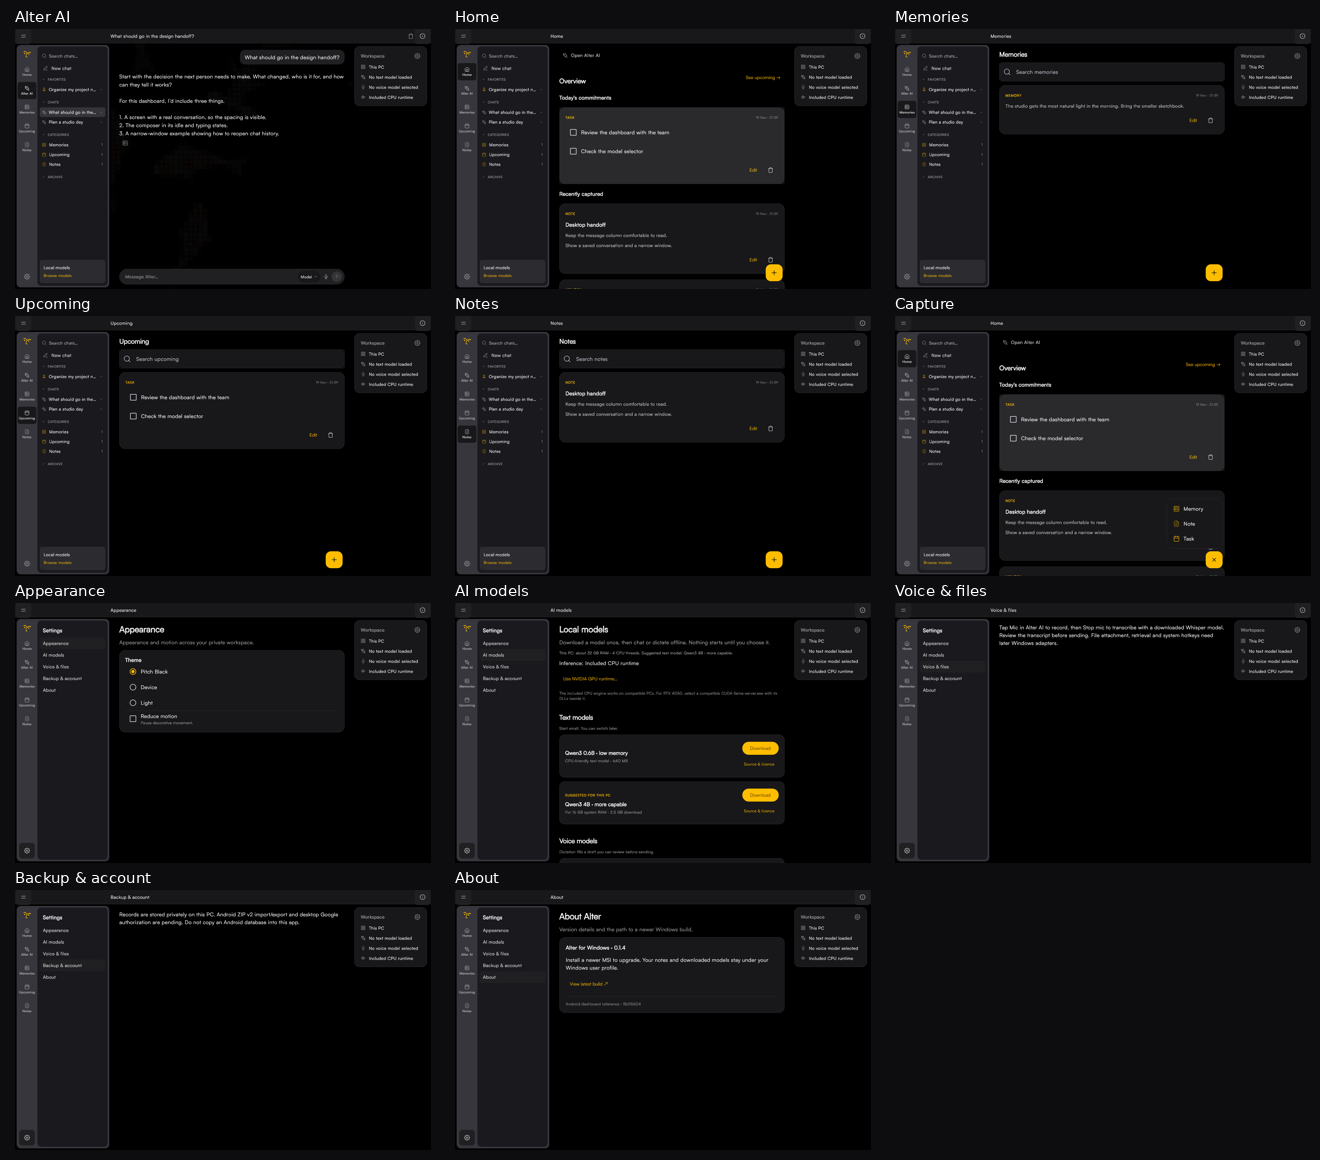
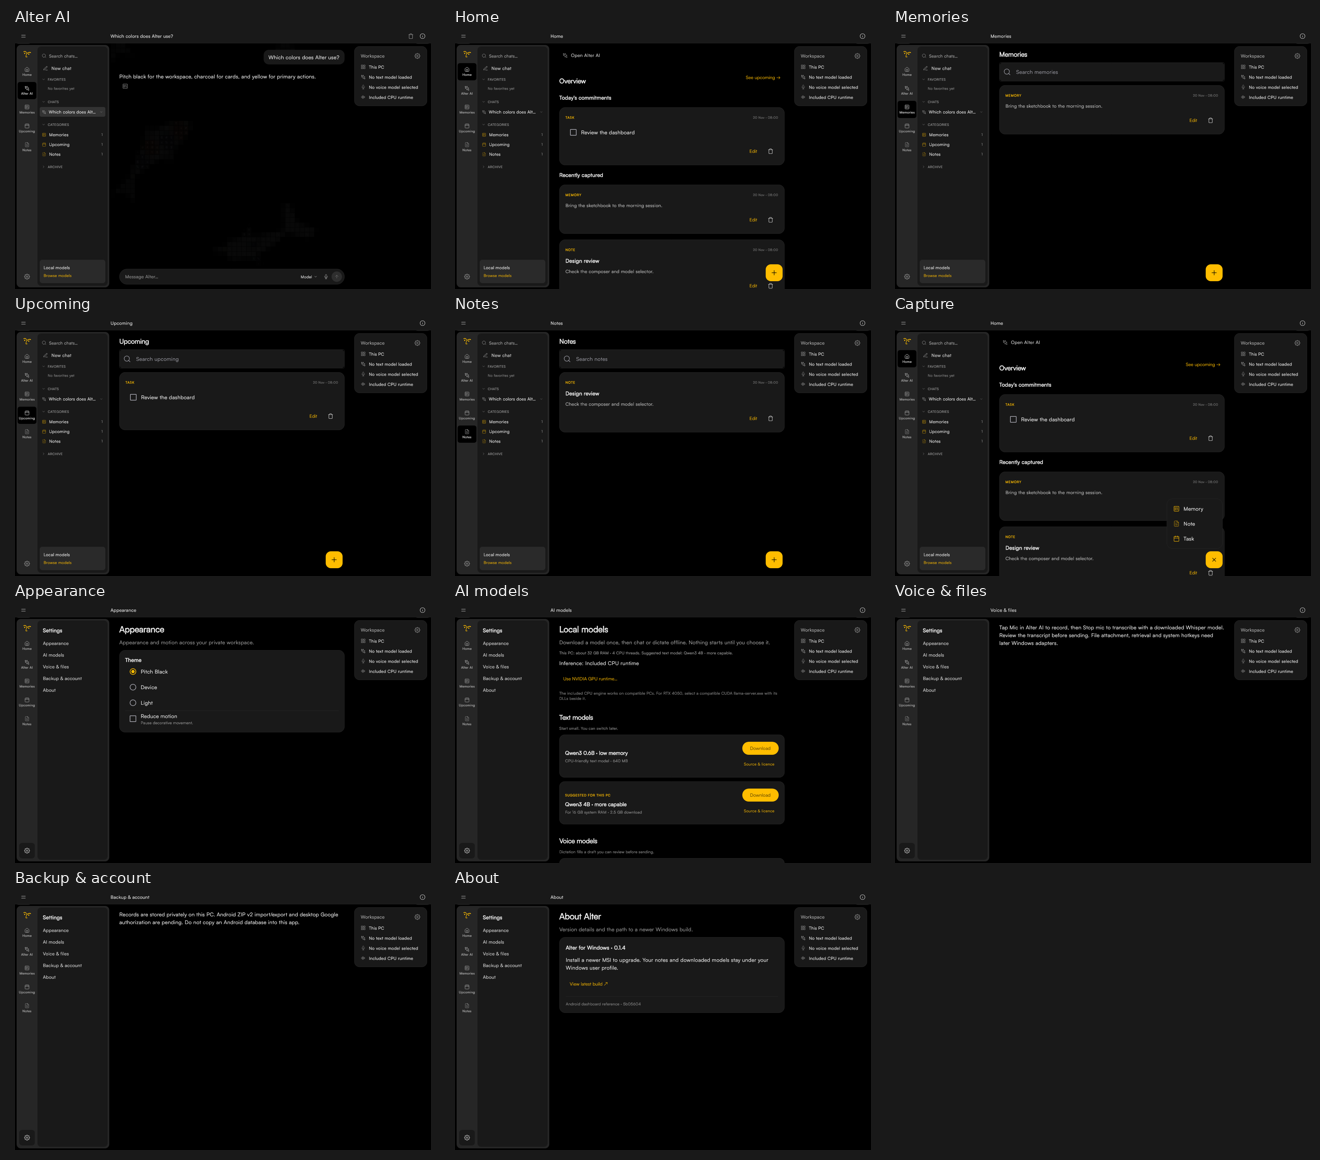
Use Alter Android palette across the desktop workspace

diff --git a/src/main/kotlin/com/example/ui/theme/DesktopColors.kt b/src/main/kotlin/com/example/ui/theme/DesktopColors.kt
@@ -1,0 +1,74 @@
+package com.example.ui.theme
+
+import androidx.compose.material3.darkColorScheme
+import androidx.compose.material3.lightColorScheme
+import androidx.compose.ui.graphics.Color
+
+internal val DarkColorScheme =
+  darkColorScheme(
+    primary = AlterYellow,
+    secondary = MutedText,
+    tertiary = BorderGray,
+    background = PitchBlack,
+    surface = SlateGrayCard,
+    surfaceVariant = SlateGrayCard,
+    onSurfaceVariant = MutedText,
+    onPrimary = PitchBlack,
+    onSecondary = PitchBlack,
+    primaryContainer = RaisedSurface,
+    onPrimaryContainer = LightText,
+    secondaryContainer = RaisedSurface,
+    onSecondaryContainer = LightText,
+    tertiaryContainer = RaisedSurface,
+    onTertiaryContainer = LightText,
+    onTertiary = LightText,
+    onBackground = LightText,
+    onSurface = LightText,
+    outline = BorderGray,
+    outlineVariant = BorderGray,
+    error = ErrorRed,
+    errorContainer = ErrorSurface,
+    onError = PitchBlack,
+    surfaceTint = PitchBlack,
+    surfaceContainerLowest = Color(0xFF121212),
+    surfaceContainerLow = SlateGrayCard,
+    surfaceDim = PitchBlack,
+    surfaceBright = RaisedSurface,
+    surfaceContainer = SlateGrayCard,
+    surfaceContainerHigh = RaisedSurface,
+    surfaceContainerHighest = RaisedSurface
+  )
+
+internal val LightColorScheme =
+  lightColorScheme(
+    primary = AlterYellow,
+    secondary = Color(0xFF666666),     // Slate-gray for subtext/secondary label
+    tertiary = Color(0xFFEAEAEA),      // Light border/divider line gray
+    background = Color(0xFFF7F8FA),    // Soft pristine off-white page background
+    surface = Color(0xFFFFFFFF),       // Pure white for cards/surfaces
+    surfaceVariant = Color(0xFFEAEAEA), // Grey for dialogs/popups instead of purple
+    onPrimary = PitchBlack,
+    onSecondary = Color(0xFF111111),   // Dark text on secondary
+    onBackground = Color(0xFF111111),  // Dark text on background
+    onSurface = Color(0xFF111111),     // Dark text on surface
+    outline = Color.Black.copy(alpha = 0.08f),
+    outlineVariant = Color(0xFFEAEAEA),
+    primaryContainer = Color(0xFFEAEAEA),
+    onPrimaryContainer = PitchBlack,
+    secondaryContainer = Color(0xFFEAEAEA),
+    onSecondaryContainer = PitchBlack,
+    tertiaryContainer = Color(0xFFEAEAEA),
+    onTertiaryContainer = PitchBlack,
+    onTertiary = PitchBlack,
+    surfaceTint = Color.White,
+    surfaceContainerLowest = Color.White,
+    surfaceContainerLow = Color(0xFFF7F8FA),
+    surfaceContainer = Color.White,
+    surfaceContainerHigh = Color(0xFFEAEAEA),
+    surfaceContainerHighest = Color(0xFFEAEAEA),
+    onSurfaceVariant = Color(0xFF666666),
+    error = ErrorRed,
+    onError = PitchBlack,
+    errorContainer = Color(0xFFFFE4E4),
+    onErrorContainer = PitchBlack,
+  )

diff --git a/src/main/kotlin/alter/Workspace.kt b/src/main/kotlin/alter/Workspace.kt
@@ -21,7 +21,6 @@ import androidx.compose.ui.text.style.TextOverflow
 import androidx.compose.ui.unit.*
 import com.example.ui.Lucide
 import com.example.ui.theme.AlterYellow
-import com.example.ui.theme.PitchBlack
 
 internal enum class Destination(val title: String, val icon: ImageVector) {
     Home("Home", Lucide.Home), Chat("Alter AI", Lucide.Sparkles), Memories("Memories", Lucide.Memories),
@@ -52,7 +51,7 @@ internal fun ActivityRail(current: Destination, settings: Boolean, select: (Dest
         Destination.entries.forEach { tab ->
             val selected = !settings && current == tab
             Column(Modifier.fillMaxWidth().height(53.dp).clip(RoundedCornerShape(7.dp))
-                .background(if (selected) c.surface else Color.Transparent).semantics { this.selected = selected }
+                .background(if (selected) c.background else Color.Transparent).semantics { this.selected = selected }
                 .clickable(role = Role.Tab) { select(tab) }, verticalArrangement = Arrangement.Center,
                 horizontalAlignment = Alignment.CenterHorizontally) {
                 Icon(tab.icon, null, Modifier.size(16.dp), tint = c.onSurface.copy(alpha = if (selected) 1f else .70f))
@@ -96,7 +95,7 @@ internal fun WorkspaceSidebar(settings: String?, active: Long?, threads: List<Ch
     val c = MaterialTheme.colorScheme
     val expanded = remember { mutableStateMapOf("Favorites" to true, "Chats" to true, "Categories" to true, "Archive" to false) }
     Column(Modifier.fillMaxSize().clip(RoundedCornerShape(11.dp)).background(
-        if (c.background == PitchBlack) Color(0xFF1A191E) else c.surface).padding(vertical = 8.dp, horizontal = 7.dp)) {
+        c.surfaceContainerLow).padding(vertical = 8.dp, horizontal = 7.dp)) {
         if (settings != null) {
             Text("Settings", Modifier.padding(10.dp), fontSize = 16.sp, fontWeight = FontWeight.Bold)
             settingsPages.forEach { WorkspaceRow(it, selected = settings == it) { openSettings(it) } }

diff --git a/src/main/kotlin/alter/Main.kt b/src/main/kotlin/alter/Main.kt
@@ -140,12 +140,7 @@ private fun AlterApp(store: Store, active: Boolean, preview: String?) {
             font.use { FontFamily(androidx.compose.ui.text.platform.Font("Satoshi", it.readBytes())) }
         }.getOrDefault(FontFamily.SansSerif)
     }
-    val colors = if (dark) darkColorScheme(primary = AlterYellow, onPrimary = PitchBlack,
-        background = PitchBlack, surface = SlateGrayCard, onSurface = SecondaryText,
-        onBackground = SecondaryText, outline = ReviewBorder, secondaryContainer = HoverSurface)
-    else lightColorScheme(primary = AlterYellow, onPrimary = PitchBlack,
-        background = Color(0xFFF7F8FA), surface = Color.White, onSurface = Color(0xFF111111),
-        onBackground = Color(0xFF111111), outline = Color(0xFFEAEAEA))
+    val colors = if (dark) DarkColorScheme else LightColorScheme
     val typography = Typography().let { t -> t.copy(
         headlineSmall = t.headlineSmall.copy(fontFamily = satoshi, fontSize = 26.sp, lineHeight = 34.sp),
         titleMedium = t.titleMedium.copy(fontFamily = satoshi),
@@ -286,7 +281,7 @@ private fun AlterApp(store: Store, active: Boolean, preview: String?) {
                     HorizontalDivider(color = colors.outline)
                     Row(Modifier.fillMaxSize()) {
                 Row(Modifier.fillMaxHeight().padding(5.dp).clip(RoundedCornerShape(13.dp))
-                    .background(if (dark) Color(0xFF37363D) else colors.secondaryContainer).padding(end = 5.dp, top = 5.dp, bottom = 5.dp)) {
+                    .background(colors.outlineVariant).padding(end = 5.dp, top = 5.dp, bottom = 5.dp)) {
                 ActivityRail(destination, settings != null, { destination = it; settings = null; search = "" },
                     { settings = "Appearance"; if (!compact) sidebar = true })
                 if (sidebar && !compact) {

diff --git a/design/desktop-review.html b/design/desktop-review.html
@@ -5,13 +5,13 @@
 <meta name="viewport" content="width=device-width,initial-scale=1">
 <title>Alter for Windows · Screen review</title>
 <style>
-  :root { color-scheme: dark; font: 15px/1.45 "Segoe UI",sans-serif; background:#000; color:#f4f4f5 }
+  :root { color-scheme: dark; font: 15px/1.45 "Segoe UI",sans-serif; background:#000; color:#ececec }
   body { margin:0 auto; max-width:1440px; padding:20px }
   header { display:flex; align-items:center; gap:14px; margin-bottom:16px }
   h1 { font-size:18px; margin:0 }
-  select { background:#222126; color:inherit; border:1px solid #414047; padding:8px 12px; border-radius:7px }
-  img { display:block; width:100%; height:auto; border:1px solid #302f35; border-radius:10px; box-sizing:border-box }
-  a { margin-left:auto; color:#ffbd00 } label { color:#b6b5bc }
+  select { background:#191919; color:inherit; border:1px solid #262626; padding:8px 12px; border-radius:7px }
+  img { display:block; width:100%; height:auto; border:1px solid #262626; border-radius:10px; box-sizing:border-box }
+  a { margin-left:auto; color:#ffbd00 } label { color:#a1a1aa }
   @media(max-width:620px){ body{padding:8px} header{flex-wrap:wrap;gap:8px} h1{width:100%} }
 </style>
 </head>

diff --git a/src/main/kotlin/com/example/ui/theme/Color.kt b/src/main/kotlin/com/example/ui/theme/Color.kt
@@ -5,12 +5,8 @@ import androidx.compose.ui.graphics.Color
 // Canonical ALTER palette. Keep the matching Android XML colors in sync.
 val AlterYellow = Color(0xFFFFBD00)
 val PitchBlack = Color(0xFF000000)
-val SlateGrayCard = Color(0xFF18181B)
-val SidebarSurface = Color(0xFF111113)
-val HoverSurface = Color(0xFF202023)
-val ReviewBorder = Color(0xFF29292D)
-val SecondaryText = Color(0xFFF4F4F5)
-val RaisedSurface = Color(0xFF262626)
+val SlateGrayCard = Color(0xFF191919)
+val RaisedSurface = Color(0xFF191919)
 val BorderGray = Color(0xFF262626)
 val LightText = Color(0xFFECECEC)
 val MutedText = Color(0xFFA1A1AA)

diff --git a/DESIGN_SYSTEM.md b/DESIGN_SYSTEM.md
@@ -2,14 +2,16 @@
 
 Authority: upstream UI/theme and latest AGENTS corrections at the locked Android SHA. The designer now explicitly requests a left desktop navigation panel and web-inspired desktop layout while keeping Alter's identity.
 
-Dark tokens: yellow #FFBD00, black #000000, card #18181B, raised/border #262626, text #ECECEC, muted #A1A1AA. Light and device themes are retained. Satoshi is the UI face; ASCII uses monospace. Interface hierarchy follows 26/34 headings, 20/28 secondary, 16/24 body and 14/20 supporting text. Memory cards retain their 24dp metadata strip, 18dp outer envelope, 4dp inset and 14dp inner surface, with 15dp note titles.
+Dark tokens: yellow #FFBD00, black #000000, card #191919, raised #191919, border #262626, text #ECECEC, muted #A1A1AA. Light and device themes are retained. Satoshi is the UI face; ASCII uses monospace. Interface hierarchy follows 26/34 headings, 20/28 secondary, 16/24 body and 14/20 supporting text. Memory cards retain their 24dp metadata strip, 18dp outer envelope, 4dp inset and 14dp inner surface, with 15dp note titles.
 
-The desktop workspace base is explicitly pitch black (#000000). Gray (#18181B) is reserved for the sidebar, cards and form surfaces; the root Surface must use `colorScheme.background`, because Material `Surface` otherwise defaults to the gray surface token. The river renders over the black base rather than changing it.
+The desktop workspace base is explicitly pitch black (#000000). Gray (#191919) is reserved for the sidebar, cards and form surfaces; the root Surface must use `colorScheme.background`, because Material `Surface` otherwise defaults to the gray surface token. The river renders over the black base rather than changing it.
 
[1 lines of base64/hex data omitted]
 
-The chat dashboard follows the two designer-supplied desktop references. A 43dp toolbar shows the current thread or destination. The left panel combines a 64dp labeled icon rail on charcoal (#37363D) with a 216dp inset navigation surface (#1A191E). Search is always visible in the conversation panel. Favorites, Chats, Categories and Archive collapse independently. The footer opens installed models. Settings uses the inset panel for its categories. Below 850dp the toolbar opens that panel on demand. The workspace-details card sits at the upper right from 1160dp and opens on demand at smaller widths.
+The chat dashboard follows the two designer-supplied desktop references. A 43dp toolbar shows the current thread or destination. The left panel combines a 64dp labeled icon rail on charcoal (#262626) with a 216dp inset navigation surface (#191919). Search is always visible in the conversation panel. Favorites, Chats, Categories and Archive collapse independently. The footer opens installed models. Settings uses the inset panel for its categories. Below 850dp the toolbar opens that panel on demand. The workspace-details card sits at the upper right from 1160dp and opens on demand at smaller widths.
 
 The transcript and bottom composer share an 810dp maximum width. User turns align right in gray capsules, assistant prose aligns left, and completed replies include Copy. The composer holds multiline text, a local model menu, dictation and send/stop. Alter yellow identifies primary actions. The anchored plus menu on the record screens expands to Memory, Note and Task. Actual Compose captures are in design/previews.
 
 One root-owned river simulation/renderer is preserved across destinations and dialogs. Home/Memories/Upcoming/Notes show it only when the destination has no content, independent of search results; chat always shows it, dimmed with saved messages. Source species/geometry/cruise and fixed square ASCII grid are retained. Rendering runs off the UI thread. It pauses when hidden, minimized or motion is reduced. Desktop visual acceptance, DPI/resize and original capture/nav motion are pending.
+
+The desktop Material color roles follow Android Color.kt and Theme.kt at `5b05604861a3e7d236b820e603c620deea61fe93`.

diff --git a/CHANGES.md b/CHANGES.md
@@ -1,5 +1,9 @@
 # Changes
 
+## Desktop palette correction
+
+Applied the Android dark and light Material schemes throughout the desktop UI, including the rail, sidebar, chat composer, dialogs and settings.
+
 ## 0.1.4 · Desktop dashboard
 
 Applied the designer’s two dashboard references across the native shell. Added a framed labeled activity rail, searchable and collapsible conversation groups, persisted Favorites and Archive, category counts, model management and a responsive workspace inspector. The bottom text composer supports local model selection, verified downloads, dictation, send and stop. Legacy messages migrate into one thread; new conversations keep independent histories. Reviewed Android main at `5b05604`.
